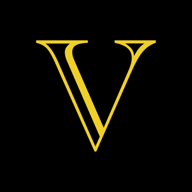
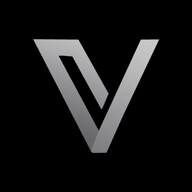
Restyle the site in grey and white.
Drop the gold wordmark, the beta section, and the overview video. The watch heading is just WATCH, and the mark is the silver V.

Changed region(s): [[0.1562, 0.1875, 0.8438, 0.8125]]

diff --git a/styles.css b/styles.css
@@ -1,9 +1,9 @@
 :root {
-  --bg: #090807;
-  --ink: #f3ead6;
-  --muted: rgba(243, 234, 214, 0.68);
-  --gold: #c9a227;
-  --line: rgba(201, 162, 39, 0.22);
+  --bg: #111113;
+  --bg-2: #1c1c1f;
+  --ink: #f5f5f7;
+  --muted: rgba(245, 245, 247, 0.62);
+  --line: rgba(255, 255, 255, 0.12);
   --max: 1140px;
 }
 
@@ -11,12 +11,15 @@
 html { scroll-behavior: smooth; }
 body {
   margin: 0;
-  background: var(--bg);
+  background:
+    radial-gradient(1200px 700px at 50% -10%, #2a2a2e 0%, transparent 55%),
+    linear-gradient(180deg, var(--bg-2) 0%, var(--bg) 42%, #0c0c0e 100%);
   color: var(--ink);
-  font-family: Outfit, system-ui, sans-serif;
+  font-family: -apple-system, BlinkMacSystemFont, "Segoe UI", system-ui, sans-serif;
   font-weight: 400;
   line-height: 1.55;
   overflow-x: clip;
+  min-height: 100vh;
 }
 
 a { color: inherit; }
@@ -34,16 +37,18 @@ img { display: block; max-width: 100%; }
   align-items: center;
   gap: 18px 22px;
   padding: 14px 28px;
-  background: rgba(9, 8, 7, 0.88);
+  background: rgba(17, 17, 19, 0.82);
   border-bottom: 1px solid var(--line);
-  backdrop-filter: blur(14px);
+  backdrop-filter: blur(16px);
 }
 .brand {
   grid-area: brand;
-  display: flex;
-  align-items: center;
   text-decoration: none;
-  min-width: 0;
+  color: #fff;
+  font-weight: 300;
+  letter-spacing: 0.22em;
+  text-transform: uppercase;
+  font-size: 15px;
 }
 .brand-icon {
   grid-area: icon;
@@ -59,7 +64,6 @@ img { display: block; max-width: 100%; }
   height: 100%;
   object-fit: cover;
 }
-.brand-word { height: 44px; width: auto; }
 .nav nav {
   grid-area: links;
   display: flex;
@@ -74,41 +78,28 @@ img { display: block; max-width: 100%; }
   color: var(--muted);
 }
 .nav nav a:hover,
-.nav nav a[aria-current="page"] { color: var(--gold); }
+.nav nav a[aria-current="page"] { color: #fff; }
 
 .eyebrow {
   margin: 0 0 12px;
   font-size: 12px;
   letter-spacing: 0.22em;
   text-transform: uppercase;
-  color: var(--gold);
+  color: rgba(255, 255, 255, 0.72);
 }
 h1, h2 {
-  font-family: "Cormorant Garamond", serif;
-  font-weight: 600;
+  font-weight: 300;
+  letter-spacing: -0.02em;
   line-height: 1.08;
   margin: 0 0 16px;
+  color: #fff;
 }
 h1 { font-size: clamp(34px, 4.4vw, 56px); }
-h2 { font-size: clamp(32px, 4vw, 44px); margin-bottom: 28px; }
-.watch-title span {
-  font-family: Outfit, system-ui, sans-serif;
-  font-size: 0.42em;
-  font-weight: 500;
-  letter-spacing: 0.18em;
-  text-transform: uppercase;
-  color: var(--gold);
-  margin-right: 0.4em;
-  vertical-align: 0.2em;
-}
-.other-label {
-  margin: 40px 0 14px;
-  font-family: Outfit, system-ui, sans-serif;
-  font-size: 13px;
-  font-weight: 500;
-  letter-spacing: 0.16em;
-  text-transform: uppercase;
-  color: var(--muted);
+h2 { font-size: clamp(28px, 4vw, 40px); margin-bottom: 28px; }
+.watch-title {
+  font-weight: 400;
+  letter-spacing: 0.22em;
+  font-size: 15px;
 }
 
 .hero { padding: 48px 0 28px; }
@@ -125,10 +116,7 @@ h2 { font-size: clamp(32px, 4vw, 44px); margin-bottom: 28px; }
   color: var(--muted);
   max-width: 46ch;
 }
-.hero-device {
-  position: relative;
-  margin: 0;
-}
+.hero-device { position: relative; margin: 0; }
 .hero-device .shot {
   width: 100%;
   height: auto;
@@ -158,10 +146,9 @@ h2 { font-size: clamp(32px, 4vw, 44px); margin-bottom: 28px; }
   position: relative;
   border-radius: 16px;
   overflow: hidden;
-  background: #111;
+  background: #1a1a1c;
   box-shadow: 0 18px 40px rgba(0, 0, 0, 0.35);
 }
-.video-frame.wide { aspect-ratio: 16 / 9; }
 .video-frame.short { aspect-ratio: 9 / 16; }
 .video-frame iframe {
   position: absolute;
@@ -171,42 +158,6 @@ h2 { font-size: clamp(32px, 4vw, 44px); margin-bottom: 28px; }
   border: 0;
 }
 
-.beta-wrap { max-width: 720px; }
-.steps {
-  margin: 0;
-  padding: 0;
-  list-style: none;
-  counter-reset: step;
-  display: grid;
-  gap: 16px;
-}
-.steps li {
-  counter-increment: step;
-  position: relative;
-  padding-left: 32px;
-  color: var(--muted);
-  font-size: 17px;
-}
-.steps li::before {
-  content: counter(step);
-  position: absolute;
-  left: 0;
-  top: 0;
-  color: var(--gold);
-  font-weight: 500;
-  font-variant-numeric: tabular-nums;
-}
-.steps a,
-.beta-note a {
-  color: var(--gold);
-  overflow-wrap: break-word;
-}
-.beta-note {
-  margin: 22px 0 0;
-  color: var(--muted);
-  font-size: 16px;
-}
-
 .foot {
   border-top: 1px solid var(--line);
   padding: 28px 0 40px;
@@ -214,27 +165,26 @@ h2 { font-size: clamp(32px, 4vw, 44px); margin-bottom: 28px; }
   font-size: 13px;
 }
 .foot-row { display: flex; justify-content: space-between; gap: 16px; }
-.foot a { color: var(--gold); text-decoration: none; }
+.foot a { color: #fff; text-decoration: none; }
+.foot a:hover { text-decoration: underline; }
 
 .doc .legal { padding: 48px 0 100px; max-width: 720px; }
-.doc h1 { font-size: 48px; }
-.doc h2 { font-size: 26px; margin-top: 32px; }
+.doc h1 { font-size: 48px; font-weight: 300; }
+.doc h2 { font-size: 22px; margin-top: 32px; font-weight: 500; letter-spacing: 0; }
 .doc .meta { color: var(--muted); font-size: 14px; }
-.doc .legal p, .doc li { color: rgba(243, 234, 214, 0.78); }
+.doc .legal p, .doc li { color: rgba(245, 245, 247, 0.78); }
+.doc a { color: #fff; }
 .doc code {
   font-size: 0.92em;
-  color: var(--gold);
+  color: #fff;
 }
 
 @media (max-width: 860px) {
   .wrap { width: min(var(--max), calc(100% - 32px)); }
   .nav { padding: 12px 16px; }
-  .brand-word { height: 36px; }
-  .nav nav { gap: 14px; }
   .hero { padding: 28px 0 12px; }
   .hero-grid { grid-template-columns: minmax(0, 1fr); gap: 28px; }
   .other-videos { max-width: 220px; margin-inline: auto; }
-  .watch-title { font-size: clamp(28px, 8vw, 40px); }
   .band { padding: 48px 0 56px; }
   h1 { font-size: clamp(32px, 9vw, 48px); }
 }

diff --git a/index.html b/index.html
@@ -5,24 +5,18 @@
   <meta name="viewport" content="width=device-width, initial-scale=1" />
   <title>Virtuosity — See your piano playing</title>
   <meta name="description" content="Virtuosity is an iPad MIDI piano-roll practice tool for classical pianists. Watch phrasing, dynamics, and time as you play." />
-  <link rel="icon" href="assets/icon-192.png" />
-  <link rel="preconnect" href="https://fonts.googleapis.com" />
-  <link rel="preconnect" href="https://fonts.gstatic.com" crossorigin />
-  <link href="https://fonts.googleapis.com/css2?family=Cormorant+Garamond:wght@500;600;700&family=Outfit:wght@300;400;500;600&display=swap" rel="stylesheet" />
-  <link rel="stylesheet" href="styles.css" />
+  <link rel="icon" href="assets/icon-192.png?v=3" />
+  <link rel="stylesheet" href="styles.css?v=3" />
 </head>
 <body>
   <header class="nav">
-    <a class="brand" href="#top">
-      <img class="brand-word" src="assets/wordmark.png" alt="Virtuosity" />
-    </a>
+    <a class="brand" href="#top">Virtuosity</a>
     <nav>
-      <a href="#videos">Videos</a>
-      <a href="#beta">Beta</a>
+      <a href="#videos">Watch</a>
       <a href="privacy.html">Privacy</a>
     </nav>
     <a class="brand-icon" href="#top" aria-label="Virtuosity">
-      <img src="assets/icon-192.png" alt="" />
+      <img src="assets/icon-192.png?v=3" alt="" />
     </a>
   </header>
 
@@ -45,17 +39,7 @@
 
     <section class="band" id="videos">
       <div class="wrap">
-        <h2 class="watch-title"><span>Watch:</span> Overview of Virtuosity</h2>
-        <div class="video-frame wide">
-          <iframe
-            src="https://www.youtube.com/embed/vAluvh5ViYQ"
-            title="Overview of Virtuosity for iPad (Beta)"
-            allow="accelerometer; autoplay; clipboard-write; encrypted-media; gyroscope; picture-in-picture; web-share"
-            allowfullscreen
-            loading="lazy"
-          ></iframe>
-        </div>
-        <h3 class="other-label">Other videos</h3>
+        <h2 class="watch-title">WATCH</h2>
         <div class="other-videos">
           <div class="video-frame short">
             <iframe
@@ -67,20 +51,6 @@
             ></iframe>
           </div>
         </div>
-      </div>
-    </section>
-
-    <span id="about"></span>
-    <section class="band" id="beta">
-      <div class="wrap beta-wrap">
-        <h2>Become a beta tester</h2>
-        <ol class="steps">
-          <li>On your iPad, install <a href="https://apps.apple.com/app/testflight/id899247664">TestFlight</a> from the App Store.</li>
-          <li>Open the invite on that iPad: <a href="https://testflight.apple.com/join/QHLOJXM9">testflight.apple.com/join/QHLOJXM9</a></li>
-          <li>Tap Accept, then Install. Virtuosity runs in landscape.</li>
-          <li>Connect a digital piano with a USB or MIDI cable, then open the app.</li>
-        </ol>
-        <p class="beta-note">If the invite says the beta is not taking new testers, email <a href="mailto:lukemorgan750@gmail.com">lukemorgan750@gmail.com</a> and ask to be added.</p>
       </div>
     </section>
   </main>

diff --git a/privacy.html b/privacy.html
@@ -5,24 +5,18 @@
   <meta name="viewport" content="width=device-width, initial-scale=1" />
   <title>Privacy Policy — Virtuosity</title>
   <meta name="description" content="Privacy policy for the Virtuosity iPad app." />
-  <link rel="icon" href="assets/icon-192.png" />
-  <link rel="preconnect" href="https://fonts.googleapis.com" />
-  <link rel="preconnect" href="https://fonts.gstatic.com" crossorigin />
-  <link href="https://fonts.googleapis.com/css2?family=Cormorant+Garamond:wght@600;700&family=Great+Vibes&family=Outfit:wght@300;400;500&display=swap" rel="stylesheet" />
-  <link rel="stylesheet" href="styles.css" />
+  <link rel="icon" href="assets/icon-192.png?v=3" />
+  <link rel="stylesheet" href="styles.css?v=3" />
 </head>
 <body class="doc">
   <header class="nav">
-    <a class="brand" href="index.html">
-      <img class="brand-word" src="assets/wordmark.png" alt="Virtuosity" />
-    </a>
+    <a class="brand" href="index.html">Virtuosity</a>
     <nav>
-      <a href="index.html#videos">Videos</a>
-      <a href="index.html#beta">Beta</a>
+      <a href="index.html#videos">Watch</a>
       <a href="privacy.html" aria-current="page">Privacy</a>
     </nav>
     <a class="brand-icon" href="index.html" aria-label="Virtuosity">
-      <img src="assets/icon-192.png" alt="" />
+      <img src="assets/icon-192.png?v=3" alt="" />
     </a>
   </header>
 
